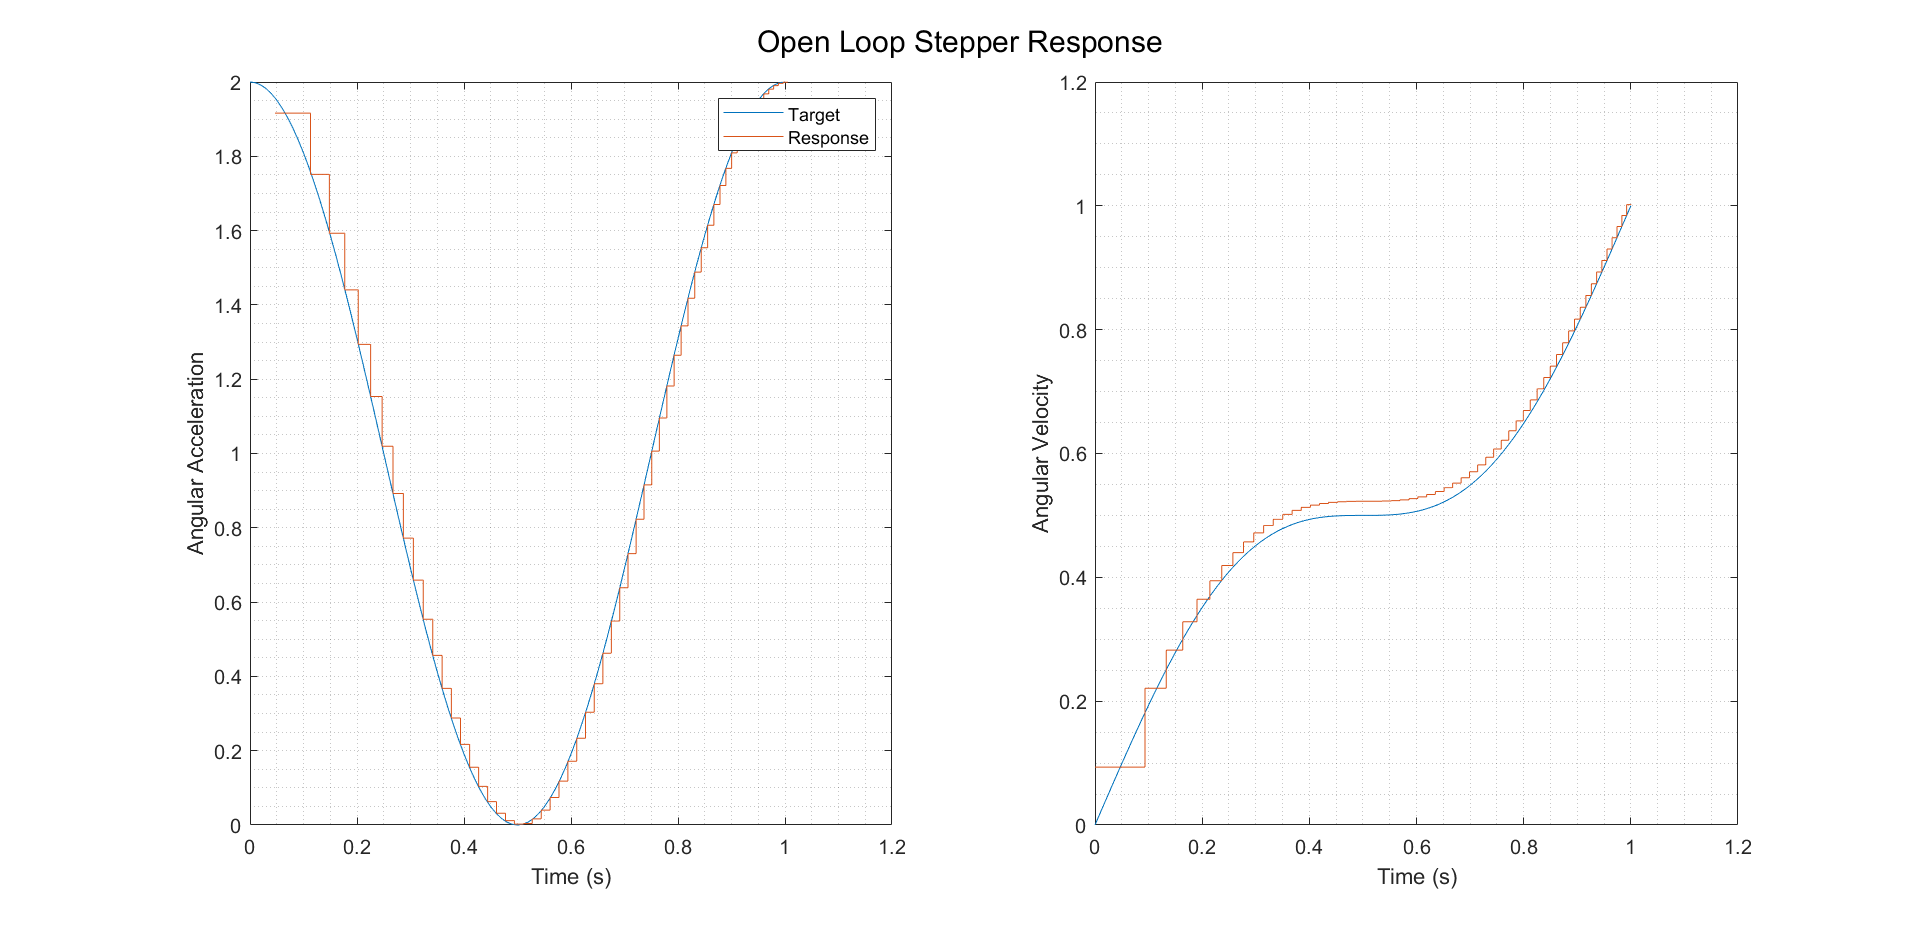
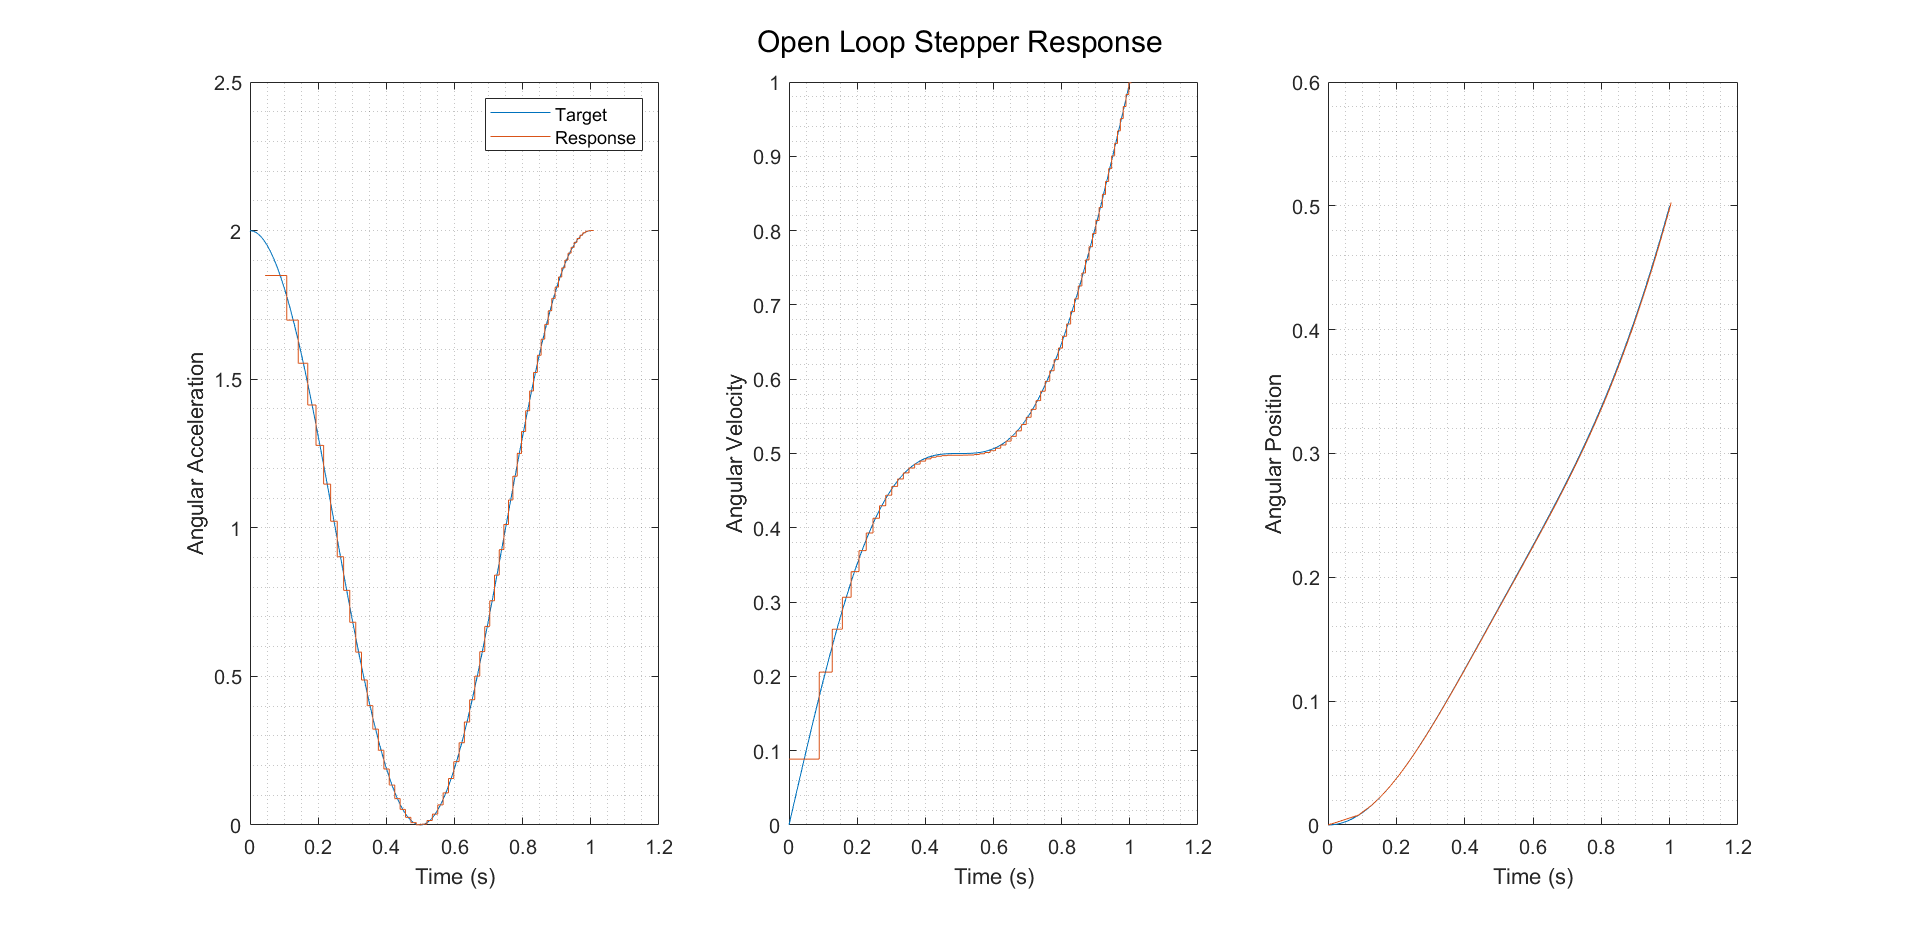
stepper response data

diff --git a/analysis/stepper_control/stepper_control_test.m b/analysis/stepper_control/stepper_control_test.m
@@ -13,8 +13,8 @@ stepSize = deg2rad(1.8/4);
 % clock frequency of micro controller
 frequency = 16e6;
 % target acceleration curve
-t = 0:0.01:1;
-omegaDots = cos(2*pi*t) + 1;% 1.5 - 1./(1+exp(-1*t));
+t = 0:0.1:5;
+omegaDots = 1-0.1*t;% 1.5 - 1./(1+exp(-1*t));
 
 %% INIT
 % generate lookup table with interpolation
